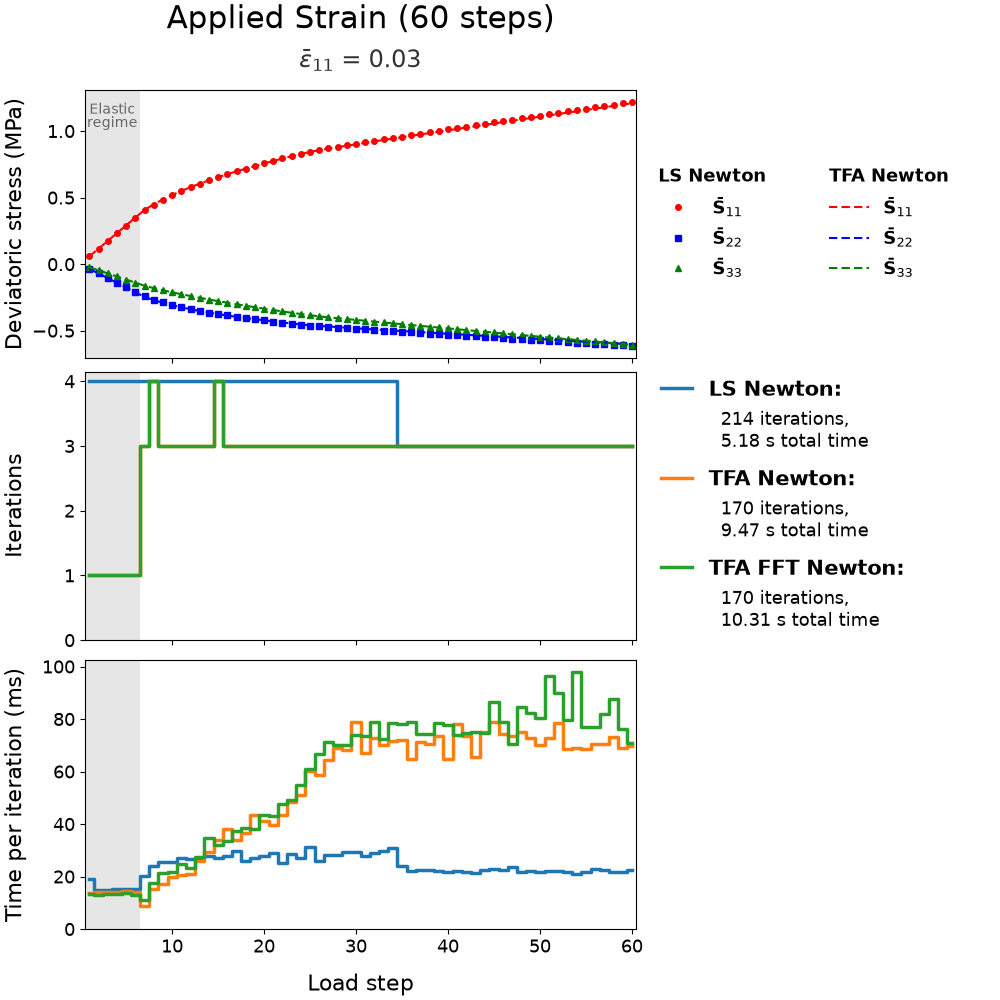
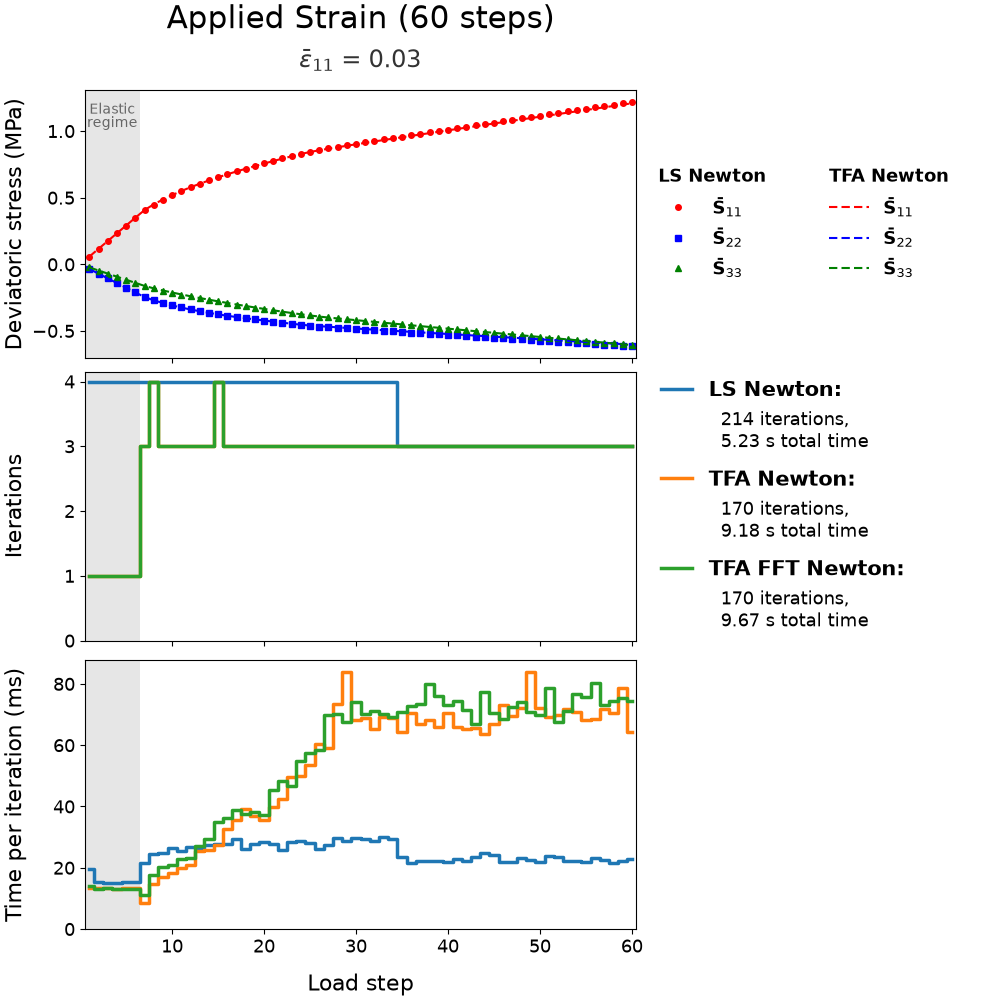
changed von mises contour plots to compare w TFA not FFT-preconditioned TFA

diff --git a/code/MAIN_Newton.py b/code/MAIN_Newton.py
@@ -25,8 +25,8 @@ from verification import get_ls_jacobian_checks, get_tfa_jacobian_checks, run_ve
 
 run_name = "Newton"
 ls_solver_name = "LS Newton"
-# With TFA included, the stress plot and the checks compare LS against the plain TFA solver, and the von Mises maps
-# against the FFT-preconditioned one.
+# With TFA included, every plot and check compares LS against the plain TFA solver, the baseline; the
+# FFT-preconditioned TFA solver is checked against it.
 tfa_baseline_solver_name = "TFA Newton"
 tfa_fft_solver_name = "TFA FFT Newton"
 
@@ -56,8 +56,8 @@ def main():
     if config.include_tfa_model:
         print_model_difference(results, tfa_baseline_solver_name, ls_solver_name, comparable_step_count)
         save_load_path_plots(results, comparable_step_count, tfa_baseline_solver_name, ls_solver_name, run_name)
-        save_von_mises_stress_plot(results, [tfa_fft_solver_name, ls_solver_name], problem.partition_material_ids,
-                                   run_name)
+        save_von_mises_stress_plot(results, [tfa_baseline_solver_name, ls_solver_name],
+                                   problem.partition_material_ids, run_name)
         check_solver_agreement(results, [tfa_baseline_solver_name, tfa_fft_solver_name], comparable_step_count)
         if config.matched_stiffness_control:
             check_matched_stiffness(results, tfa_baseline_solver_name, ls_solver_name, comparable_step_count)

diff --git a/code/MAIN_FP.py b/code/MAIN_FP.py
@@ -23,8 +23,8 @@ from verification import run_verification
 
 run_name = "FP"
 ls_solver_name = "LS FP"
-# With TFA included, the stress plot and the checks compare LS against the plain TFA solver, and the von Mises maps
-# against the FFT-preconditioned one.
+# With TFA included, every plot and check compares LS against the plain TFA solver, the baseline; the
+# FFT-preconditioned TFA solver is checked against it.
 tfa_baseline_solver_name = "TFA Standard FP"
 tfa_fft_solver_name = "TFA FFT FP"
 
@@ -54,8 +54,8 @@ def main():
     if config.include_tfa_model:
         print_model_difference(results, tfa_baseline_solver_name, ls_solver_name, comparable_step_count)
         save_load_path_plots(results, comparable_step_count, tfa_baseline_solver_name, ls_solver_name, run_name)
-        save_von_mises_stress_plot(results, [tfa_fft_solver_name, ls_solver_name], problem.partition_material_ids,
-                                   run_name)
+        save_von_mises_stress_plot(results, [tfa_baseline_solver_name, ls_solver_name],
+                                   problem.partition_material_ids, run_name)
         check_solver_agreement(results, [tfa_baseline_solver_name, tfa_fft_solver_name], comparable_step_count)
         if config.matched_stiffness_control:
             check_matched_stiffness(results, tfa_baseline_solver_name, ls_solver_name, comparable_step_count)

diff --git a/CLAUDE.md b/CLAUDE.md
@@ -87,7 +87,7 @@ parameters (`offline.get_cache_path`). `P0` is cached under the reference stiffn
 operators, since parameters alone cannot detect that. `code/output/` is **tracked**: each run first deletes its own
 `<prefix>*` files, then writes `<prefix>load_path_summary.png`, `<prefix>time_breakdown.png`,
 `<prefix>von_mises_stress.png` (partition von Mises stress at the last completed step: LS, and with TFA also the
-TFA FFT solver and LS − TFA FFT) and `<prefix>results.npz` (per-solver results plus the problem parameters, read by
+plain TFA solver and LS − TFA) and `<prefix>results.npz` (per-solver results plus the problem parameters, read by
 the cross-checks; written last, only once every check has passed, so a failed run leaves none), plus the shared
 `cross_section.png`. Any run therefore shows up in `git status`.
 
